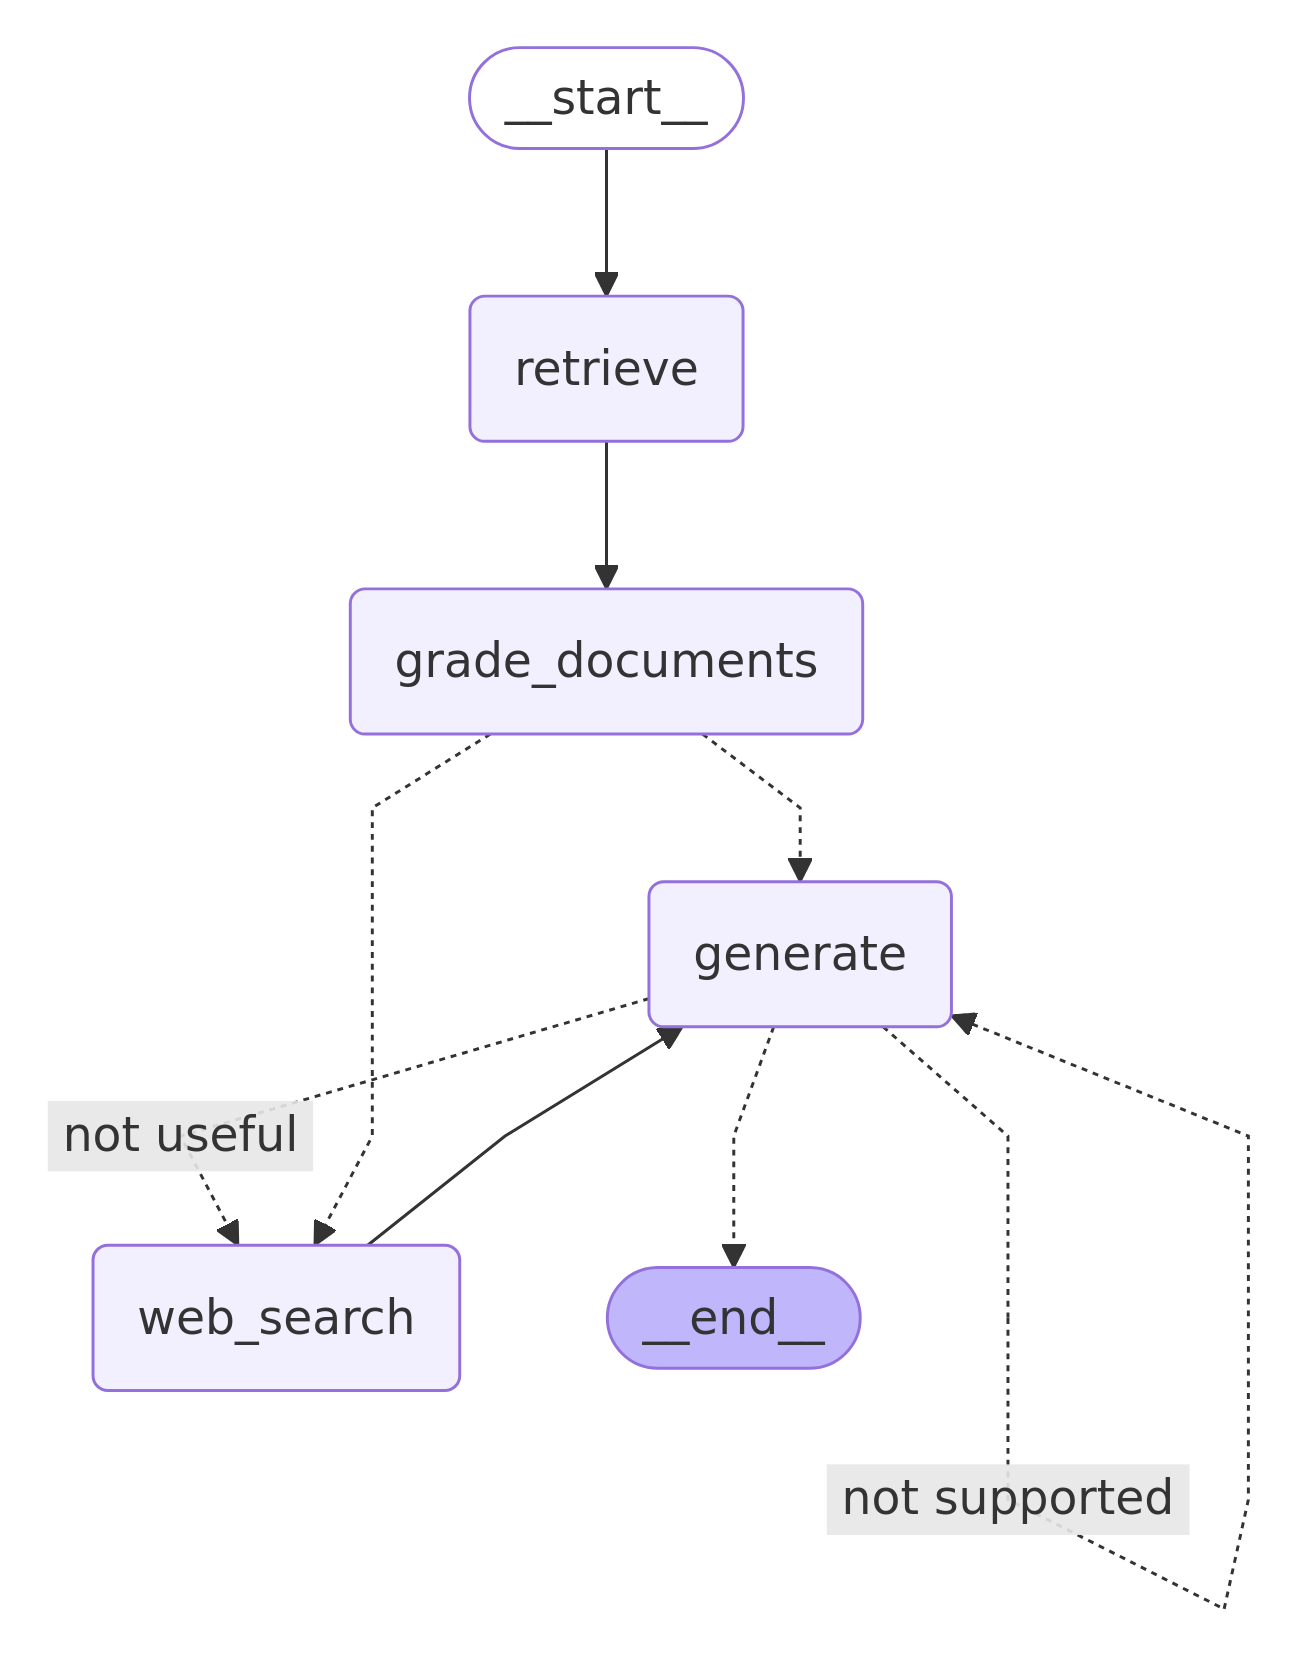
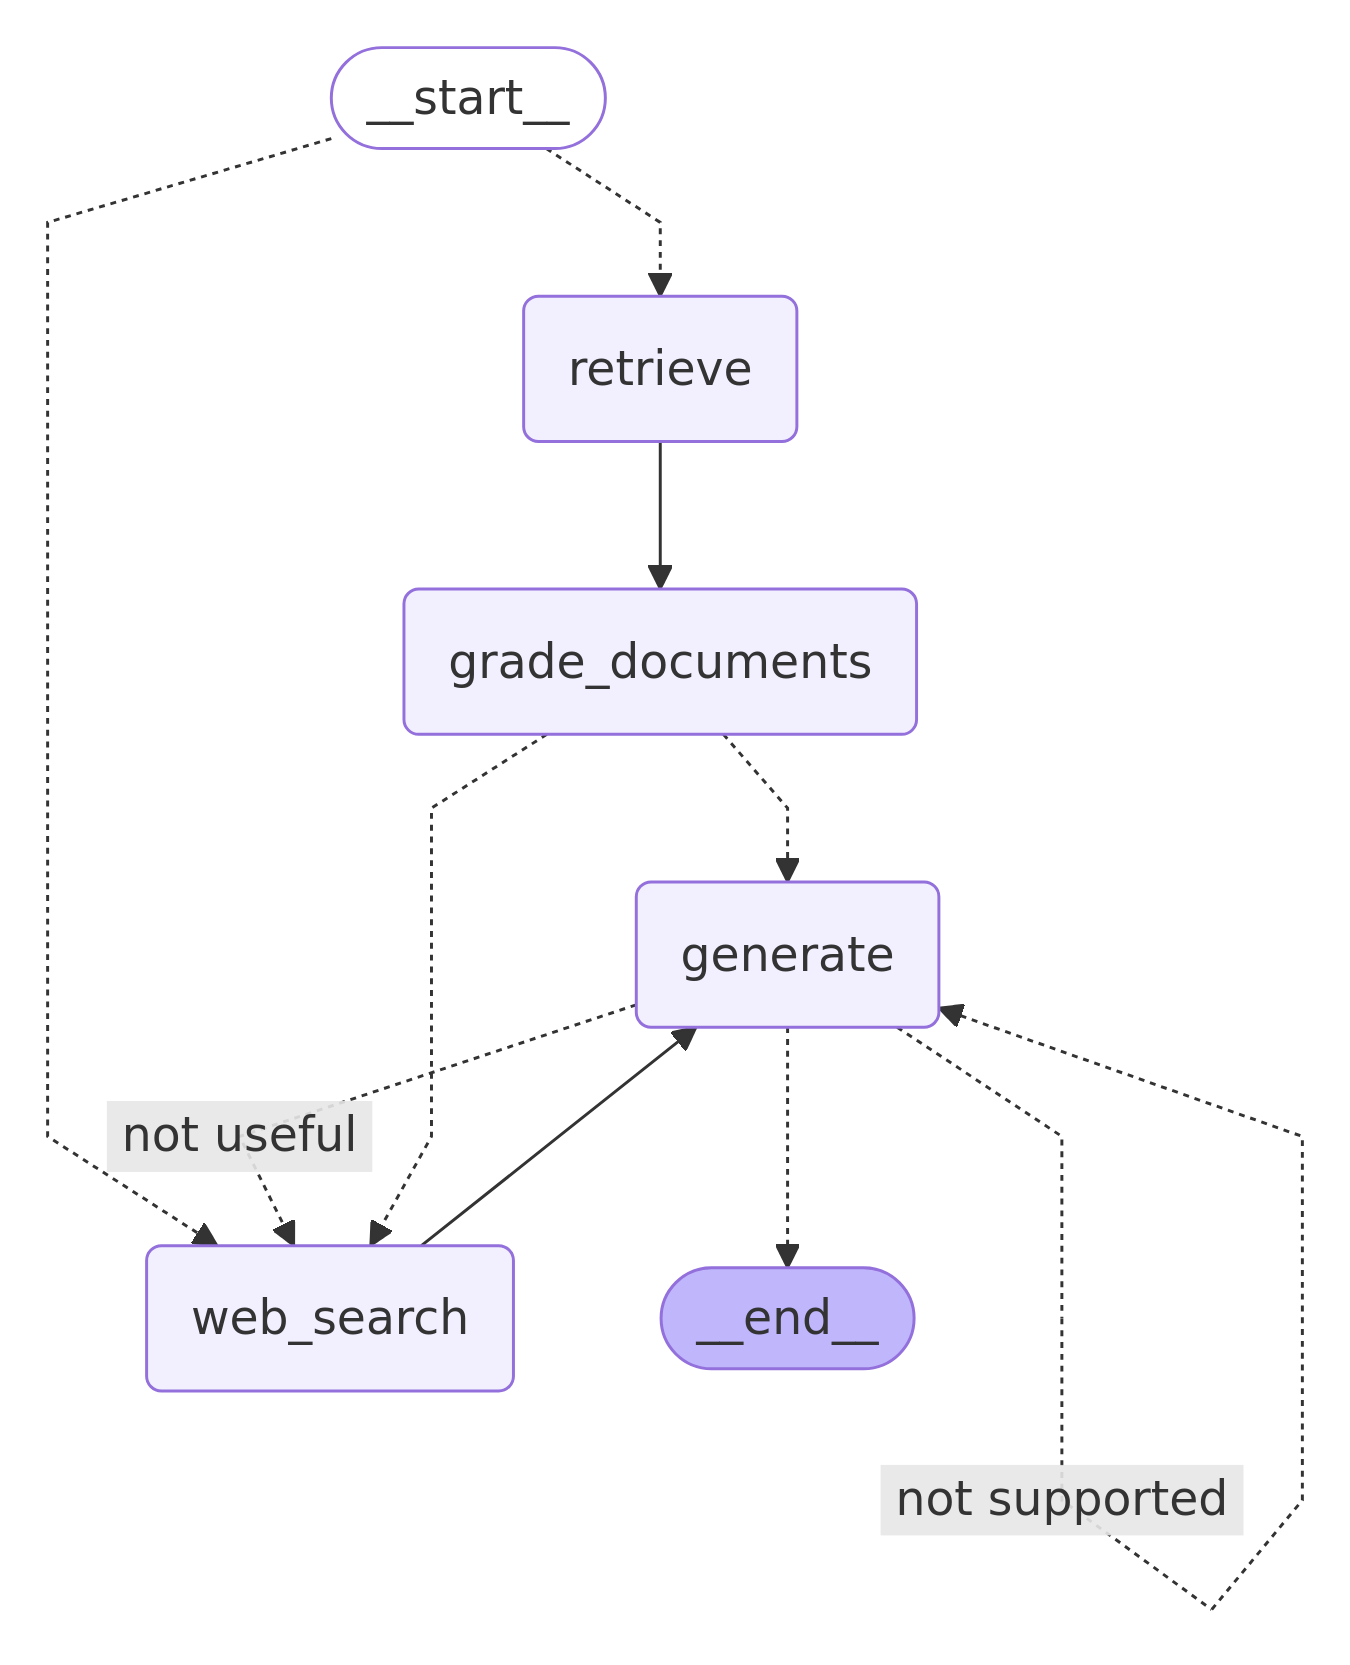
add: initial router

diff --git a/graph/graph.py b/graph/graph.py
@@ -9,6 +9,7 @@ from graph.nodes import generate, grade_documents, retrieve, web_search
 from graph.state import GraphState
 from graph.chains.hallucination_grader import hallucination_grader
 from graph.chains.answer_grader import answer_grader
+from graph.chains.router import question_router, RouteQuery
 
 
 def decide_to_generate(state: GraphState):
@@ -55,6 +56,20 @@ def grade_generation_grounded_in_docs_and_question(state: GraphState):
         return "not supported"
 
 
+def route_question(state: GraphState) -> str:
+    print("---ROUTE QUESTION---")
+    question = state["question"]
+    source: RouteQuery = question_router.invoke({"question": question})
+    if source.data_source == "vectorstore":
+        print("---DECISION: VECTORSTORE---")
+        return RETRIEVE
+    elif source.data_source == "websearch":
+        print("---DECISION: WEBSEARCH---")
+        return WEB_SEARCH
+    else:
+        raise ValueError(f"Unknown data source: {source.data_source}")
+
+
 workflow = StateGraph(GraphState)
 
 # Add nodes for each major workflow step
@@ -64,7 +79,13 @@ workflow.add_node(WEB_SEARCH, web_search)
 workflow.add_node(GENERATE, generate)
 
 # Set the entry point of the workflow
-workflow.set_entry_point(RETRIEVE)
+workflow.set_conditional_entry_point(
+    route_question,
+    {
+        RETRIEVE: RETRIEVE,
+        WEB_SEARCH: WEB_SEARCH,
+    },
+)
 
 # Define the workflow edges
 workflow.add_edge(RETRIEVE, GRADE_DOCUMENTS)

diff --git a/graph/chains/router.py b/graph/chains/router.py
@@ -1,0 +1,32 @@
+from typing import Literal
+
+from langchain_core.prompts import ChatPromptTemplate
+from pydantic import BaseModel, Field
+from langchain_openai import ChatOpenAI
+
+
+class RouteQuery(BaseModel):
+    """Router a user query to the most relevant datasource."""
+
+    data_source: Literal["websearch", "vectorstore"] = Field(
+        ...,
+        description="Given a user question choose to router it to web search or a vectorstore.",
+    )
+
+
+llm = ChatOpenAI(temperature=0, model_name="gpt-4o")
+
+structured_llm_router = llm.with_structured_output(RouteQuery)
+
+system = """You are a expert at routing a user question to a vectorstore or web search.
+The vectorstore contains documents related to agents, prompt engineering, and adversarial attacks.
+Use the vectorstore for questions on these topics. For all else, use web search."""
+
+route_prompt = ChatPromptTemplate.from_messages(
+    [
+        ("system", system),
+        ("human", "{question}"),
+    ]
+)
+
+question_router = route_prompt | structured_llm_router

diff --git a/graph/chains/tests/test_chains.py b/graph/chains/tests/test_chains.py
@@ -7,6 +7,7 @@ from graph.chains.retrieval_grader import GradeDocuments, retrieval_grader
 from graph.chains.generation import generation_chain
 from ingestion import retriever
 from graph.chains.hallucination_grader import hallucination_grader, GradeHallucinations
+from graph.chains.router import question_router, RouteQuery
 
 
 def test_retrival_grader_answer_yes() -> None:
@@ -61,3 +62,15 @@ def test_hallucination_grader_answer_no() -> None:
         }
     )
     assert res.binary_score == False
+
+
+def test_router_to_vectorstore() -> None:
+    question = "agent memory"
+    res: RouteQuery = question_router.invoke({"question": question})
+    assert res.data_source == "vectorstore"
+
+
+def test_router_to_websearch() -> None:
+    question = "how to make pizza"
+    res: RouteQuery = question_router.invoke({"question": question})
+    assert res.data_source == "websearch"

diff --git a/graph/nodes/web_search.py b/graph/nodes/web_search.py
@@ -19,7 +19,7 @@ def web_search(state: GraphState) -> Dict[str, Any]:
     """
     print("---WEB SEARCH---")
     question = state["question"]
-    documents = state["documents"]
+    documents = state.get("documents", [])
 
     tavily_results = web_search_tool.invoke({"query": question})
     # print(tavily_results)

diff --git a/main.py b/main.py
@@ -14,4 +14,4 @@ if __name__ == "__main__":
     # See ingestion.py for more details
 
     # So that's the context it has; for anything else, it will search the web
-    print(app.invoke(input={"question": "What is agent memory?"}))
+    print(app.invoke(input={"question": "How to make pizza?"}))
